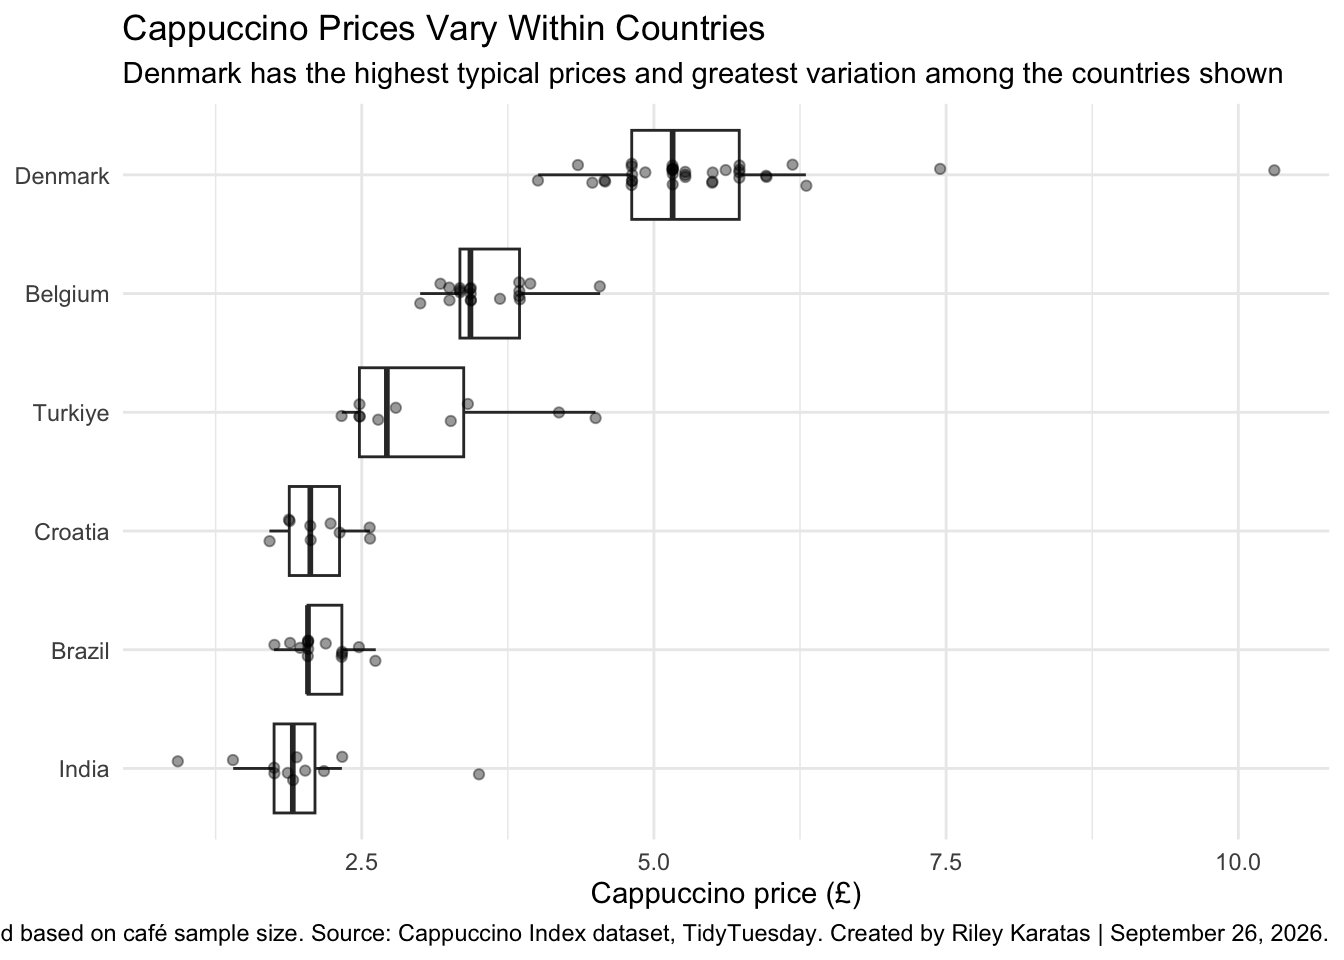
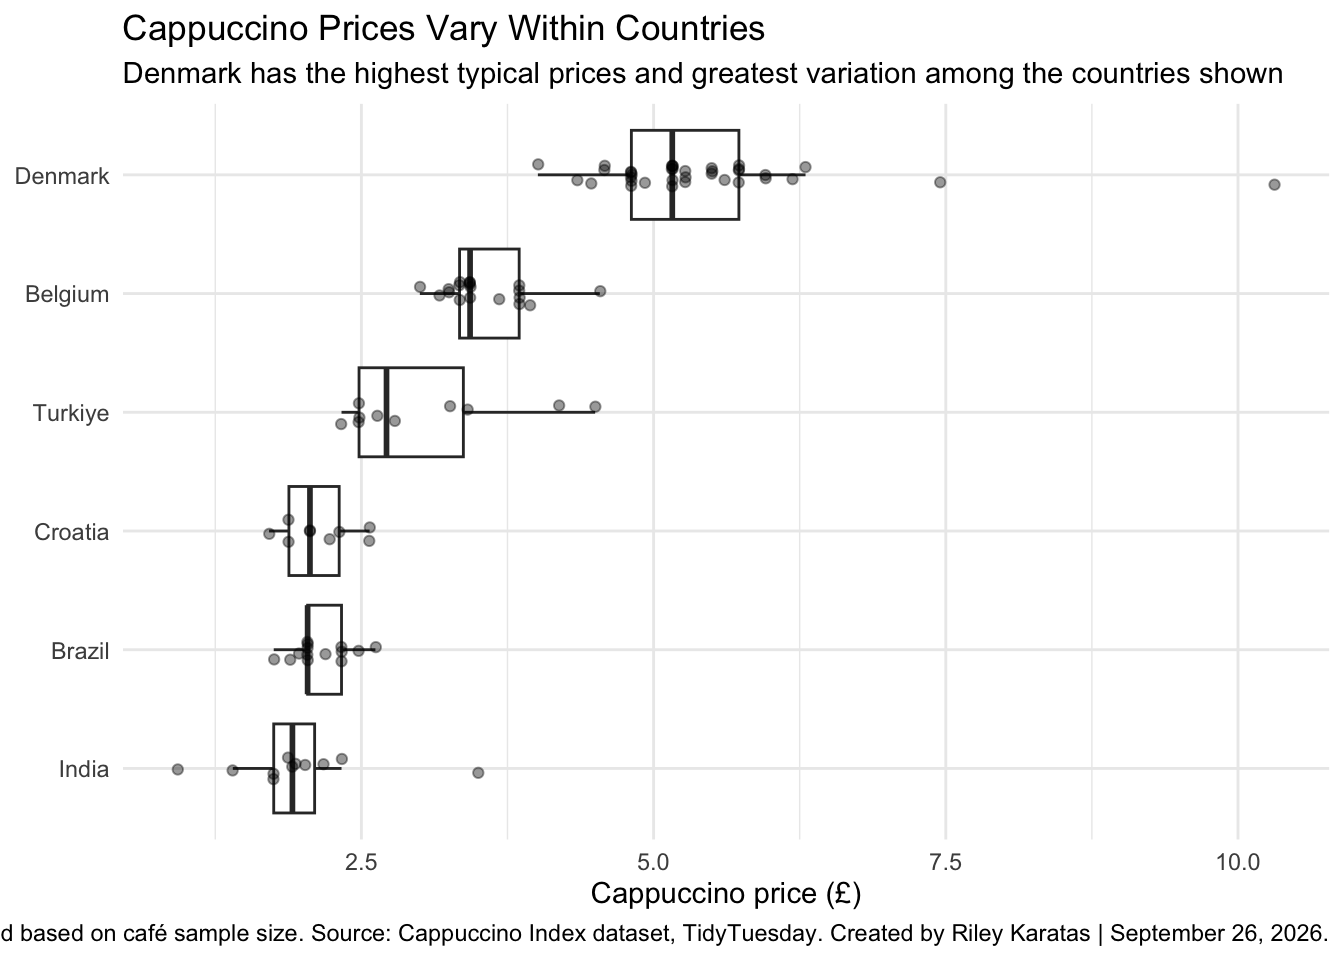
Built site for gh-pages

diff --git a/tt/hw01-tt.html b/tt/hw01-tt.html
@@ -711,7 +711,7 @@ $ hourly_wage       &lt;dbl&gt; 140.00, 30.00, 17.88, 26.70, 140.00, 19.31, 15.0
 <span id="cb15-30"><a href="#cb15-30" aria-label="30"></a>    <span class="at">subtitle =</span> <span class="st">"Denmark has the highest typical prices and greatest variation among the countries shown"</span>,</span>
 <span id="cb15-31"><a href="#cb15-31" aria-label="31"></a>    <span class="at">x =</span> <span class="st">"Cappuccino price (£)"</span>,</span>
 <span id="cb15-32"><a href="#cb15-32" aria-label="32"></a>    <span class="at">y =</span> <span class="cn">NULL</span>,</span>
-<span id="cb15-33"><a href="#cb15-33" aria-label="33"></a>    <span class="at">caption =</span> <span class="st">"Individual points represent cafés. Countries were selected based on café sample size. Source: Cappuccino Index dataset, TidyTuesday. Created by Riley Karatas | September 26, 2026."</span></span>
+<span id="cb15-33"><a href="#cb15-33" aria-label="33"></a>    <span class="at">caption =</span> <span class="st">"Countries were selected based on café sample size. Source: Cappuccino Index dataset, TidyTuesday. Created by Riley Karatas | September 26, 2026."</span></span>
 <span id="cb15-34"><a href="#cb15-34" aria-label="34"></a>  ) <span class="sc">+</span></span>
 <span id="cb15-35"><a href="#cb15-35" aria-label="35"></a>  <span class="fu">theme_minimal</span>()</span></code></pre></div><button title="Copy to Clipboard" class="code-copy-button"><i class="bi"></i></button></div>
 </details><div class="cell-output-display">
@@ -1377,7 +1377,7 @@ $ hourly_wage       &lt;dbl&gt; 140.00, 30.00, 17.88, 26.70, 140.00, 19.31, 15.0
 <span id="cb16-186"><a href="#cb16-186" aria-label="168"></a>    <span class="at">subtitle =</span> <span class="st">"Denmark has the highest typical prices and greatest variation among the countries shown"</span>,</span>
 <span id="cb16-187"><a href="#cb16-187" aria-label="169"></a>    <span class="at">x =</span> <span class="st">"Cappuccino price (£)"</span>,</span>
 <span id="cb16-188"><a href="#cb16-188" aria-label="170"></a>    <span class="at">y =</span> <span class="cn">NULL</span>,</span>
-<span id="cb16-189"><a href="#cb16-189" aria-label="171"></a>    <span class="at">caption =</span> <span class="st">"Individual points represent cafés. Countries were selected based on café sample size. Source: Cappuccino Index dataset, TidyTuesday. Created by Riley Karatas | September 26, 2026."</span></span>
+<span id="cb16-189"><a href="#cb16-189" aria-label="171"></a>    <span class="at">caption =</span> <span class="st">"Countries were selected based on café sample size. Source: Cappuccino Index dataset, TidyTuesday. Created by Riley Karatas | September 26, 2026."</span></span>
 <span id="cb16-190"><a href="#cb16-190" aria-label="172"></a>  ) <span class="sc">+</span></span>
 <span id="cb16-191"><a href="#cb16-191" aria-label="173"></a>  <span class="fu">theme_minimal</span>()</span>
 <span id="cb16-192"><a href="#cb16-192" aria-label="174"></a><span class="in">```</span></span>

diff --git a/index.html b/index.html
@@ -487,8 +487,8 @@ cookieconsent.run({
 </header><p>Welcome to my online portfolio for COMP/STAT112 course taken at <a href="https://www.macalester.edu/">Macalester College</a>. Please, use the side bar on the left for navigation.</p>
 <div class="cell">
 <div class="cell-output-display">
-<div class="wordcloud2 html-widget html-fill-item" id="htmlwidget-d040546e17784c5e2987" style="width:100%;height:464px;"></div>
-<script type="application/json" data-for="htmlwidget-d040546e17784c5e2987">{"x":{"word":["welcome","to","comp","stat","212","mac","st paul"],"freq":[10,2,8,8,8,6,6],"fontFamily":"Segoe UI","fontWeight":"bold","color":"random-dark","minSize":0,"weightFactor":18,"backgroundColor":"white","gridSize":0,"minRotation":-0.7853981633974483,"maxRotation":0.7853981633974483,"shuffle":true,"rotateRatio":0.4,"shape":"cardioid","ellipticity":0.65,"figBase64":null,"hover":null},"evals":[],"jsHooks":{"render":[{"code":"function(el,x){\n                        console.log(123);\n                        if(!iii){\n                          window.location.reload();\n                          iii = False;\n\n                        }\n  }","data":null}]}}</script>
+<div class="wordcloud2 html-widget html-fill-item" id="htmlwidget-61a1ad06d36520c1c7f8" style="width:100%;height:464px;"></div>
+<script type="application/json" data-for="htmlwidget-61a1ad06d36520c1c7f8">{"x":{"word":["welcome","to","comp","stat","212","mac","st paul"],"freq":[10,2,8,8,8,6,6],"fontFamily":"Segoe UI","fontWeight":"bold","color":"random-dark","minSize":0,"weightFactor":18,"backgroundColor":"white","gridSize":0,"minRotation":-0.7853981633974483,"maxRotation":0.7853981633974483,"shuffle":true,"rotateRatio":0.4,"shape":"cardioid","ellipticity":0.65,"figBase64":null,"hover":null},"evals":[],"jsHooks":{"render":[{"code":"function(el,x){\n                        console.log(123);\n                        if(!iii){\n                          window.location.reload();\n                          iii = False;\n\n                        }\n  }","data":null}]}}</script>
 </div>
 </div>
 

diff --git a/404.html b/404.html
@@ -7,7 +7,7 @@
 <meta name="viewport" content="width=device-width, initial-scale=1.0, user-scalable=yes">
 
 
-<title>quarto-inputcea684f7775c6988 – COMP/STAT212 Portfolio</title>
+<title>quarto-input8e163ebc152e1850 – COMP/STAT212 Portfolio</title>
 <style>
 /* Default styles provided by pandoc.
 ** See https://pandoc.org/MANUAL.html#variables-for-html for config info.
